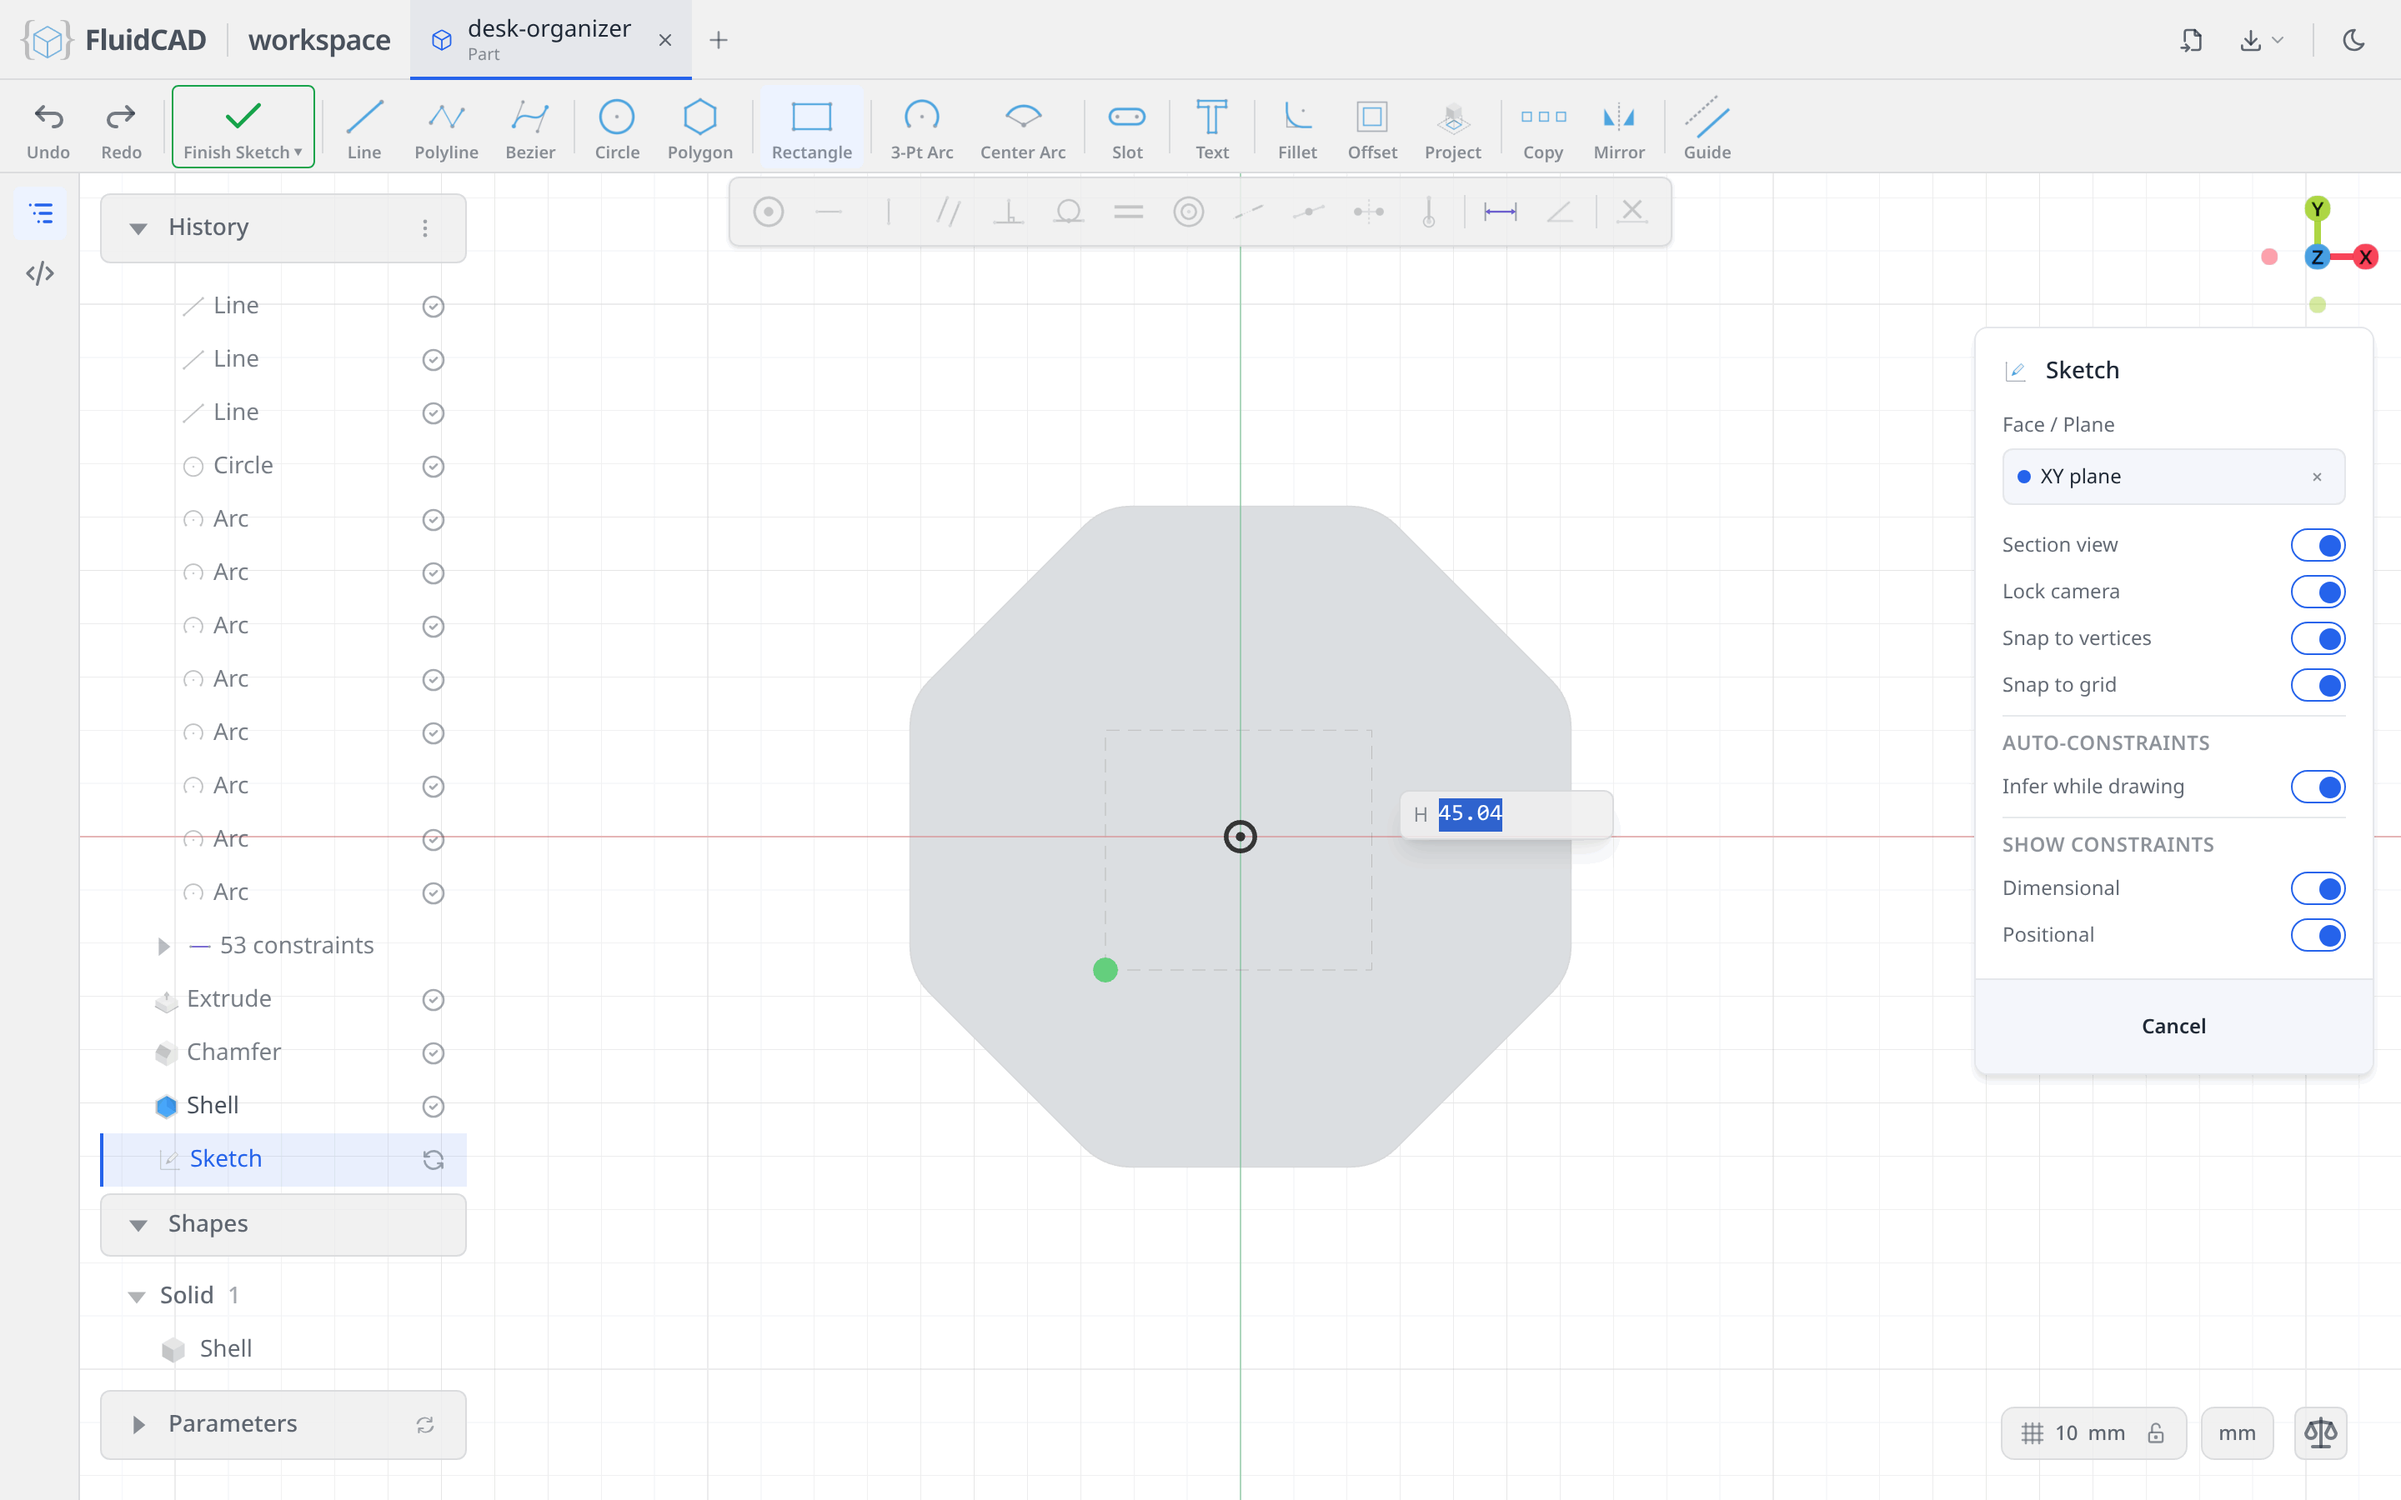
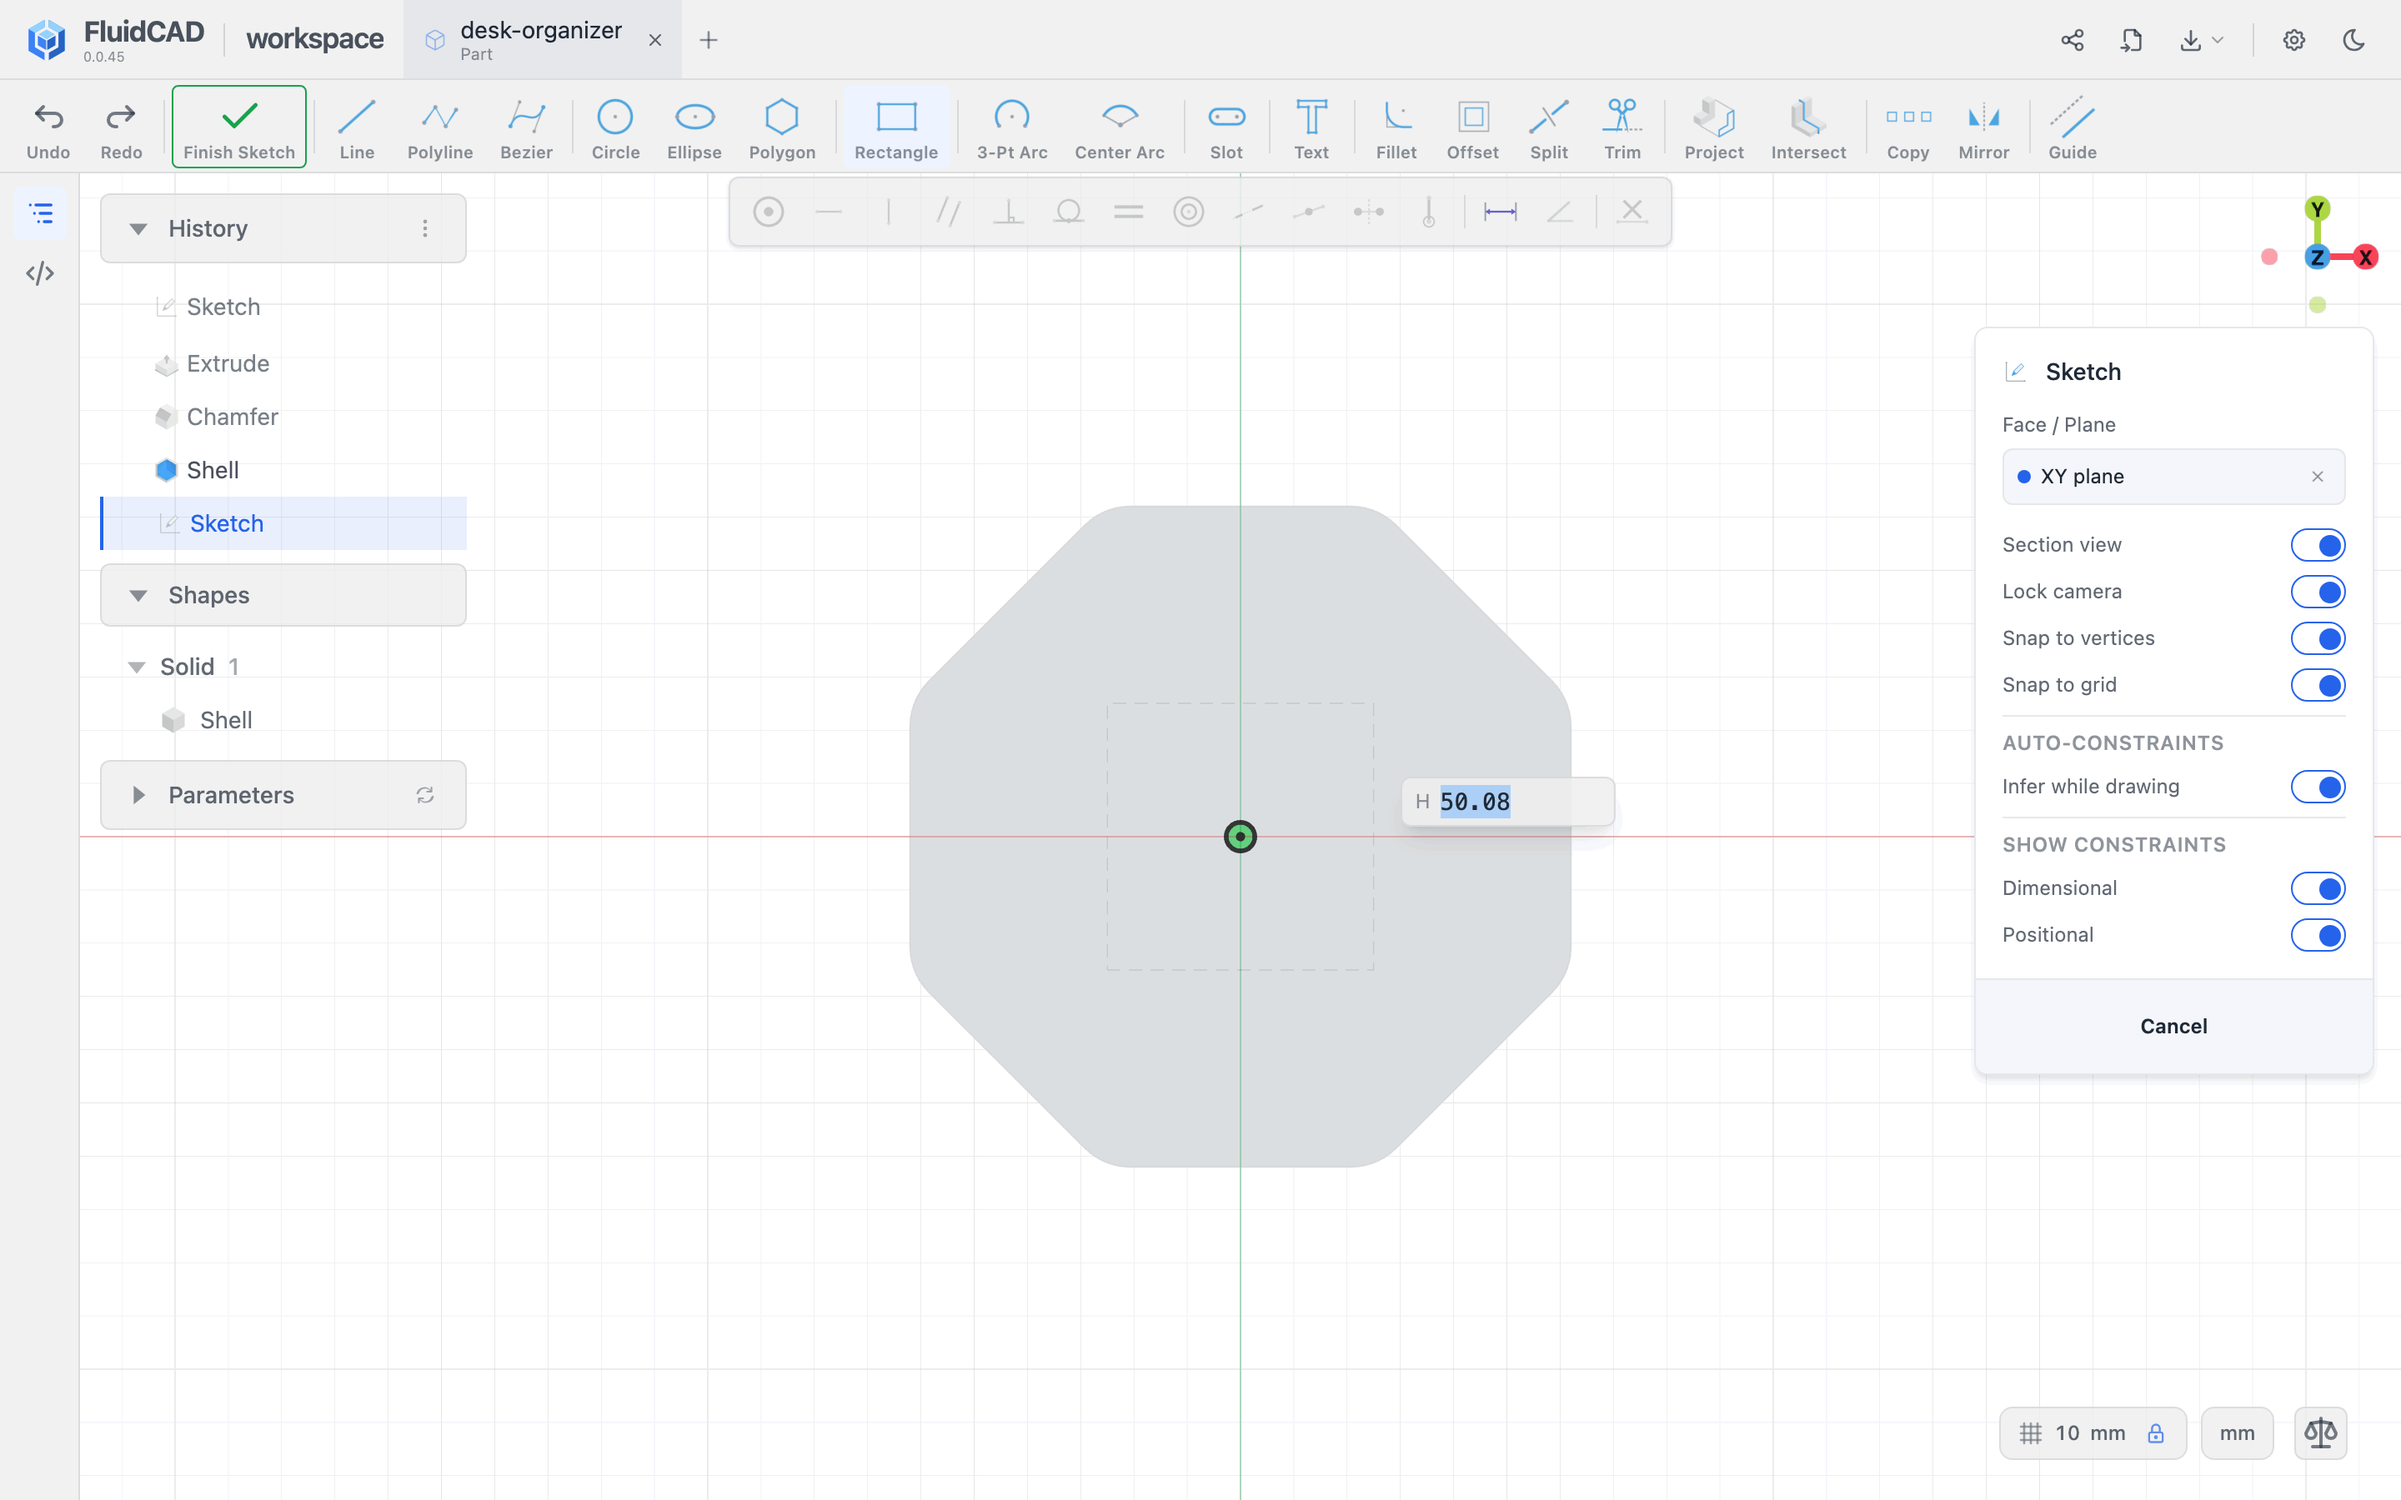
Center desk organizer square with midpoint constraint

diff --git a/website/docs/tutorials/_examples/desk-organizer-final.js b/website/docs/tutorials/_examples/desk-organizer-final.js
@@ -1,6 +1,6 @@
 // @screenshot waitForInput
 import { yAxis, origin, circle, breakpoint, plane, sketch, extrude, fillet, chamfer, repeat, rotate, arc, shell, offset, rib, revolve, line, xAxis } from 'fluidcad/core';
-import { tangent, diameter, angle, coincident, distance, equal, fix, horizontal, radius, vertical } from "fluidcad/constraints";
+import { tangent, diameter, angle, coincident, distance, equal, fix, midpoint, horizontal, radius, vertical } from "fluidcad/constraints";
 
 sketch('xy', () => {
     const l1 = line([75.77, 0], [53.58, 53.58]);
@@ -94,7 +94,7 @@ sketch('xy', () => {
     vertical(sg2);
     horizontal(sg3);
     vertical(sg4);
-    fix(sg1.start(), [-25, -25]);
+    midpoint(origin(), sg1.start(), sg3.start());
     distance(sg1.start(), sg1.end(), 50);
     distance(sg2.start(), sg2.end(), 50);
 

diff --git a/website/docs/tutorials/_examples/desk-organizer-step3-sketch.js b/website/docs/tutorials/_examples/desk-organizer-step3-sketch.js
@@ -1,6 +1,6 @@
 // @screenshot waitForInput
 import { yAxis, origin, circle, breakpoint, plane, sketch, extrude, fillet, chamfer, repeat, rotate, arc, shell, offset, rib, revolve, line, xAxis } from 'fluidcad/core';
-import { tangent, diameter, angle, coincident, distance, equal, fix, horizontal, radius, vertical } from "fluidcad/constraints";
+import { tangent, diameter, angle, coincident, distance, equal, fix, midpoint, horizontal, radius, vertical } from "fluidcad/constraints";
 
 sketch('xy', () => {
     const l1 = line([75.77, 0], [53.58, 53.58]);
@@ -94,7 +94,7 @@ sketch('xy', () => {
     vertical(sg2);
     horizontal(sg3);
     vertical(sg4);
-    fix(sg1.start(), [-25, -25]);
+    midpoint(origin(), sg1.start(), sg3.start());
     distance(sg1.start(), sg1.end(), 50);
     distance(sg2.start(), sg2.end(), 50);
 

diff --git a/website/docs/tutorials/_examples/desk-organizer-step3.js b/website/docs/tutorials/_examples/desk-organizer-step3.js
@@ -1,6 +1,6 @@
 // @screenshot waitForInput
 import { yAxis, origin, circle, breakpoint, plane, sketch, extrude, fillet, chamfer, repeat, rotate, arc, shell, offset, rib, revolve, line, xAxis } from 'fluidcad/core';
-import { tangent, diameter, angle, coincident, distance, equal, fix, horizontal, radius, vertical } from "fluidcad/constraints";
+import { tangent, diameter, angle, coincident, distance, equal, fix, midpoint, horizontal, radius, vertical } from "fluidcad/constraints";
 
 sketch('xy', () => {
     const l1 = line([75.77, 0], [53.58, 53.58]);
@@ -94,7 +94,7 @@ sketch('xy', () => {
     vertical(sg2);
     horizontal(sg3);
     vertical(sg4);
-    fix(sg1.start(), [-25, -25]);
+    midpoint(origin(), sg1.start(), sg3.start());
     distance(sg1.start(), sg1.end(), 50);
     distance(sg2.start(), sg2.end(), 50);
 

diff --git a/website/docs/tutorials/_examples/desk-organizer-step4-sketch.js b/website/docs/tutorials/_examples/desk-organizer-step4-sketch.js
@@ -1,6 +1,6 @@
 // @screenshot waitForInput
 import { yAxis, origin, circle, breakpoint, plane, sketch, extrude, fillet, chamfer, repeat, rotate, arc, shell, offset, rib, revolve, line, xAxis } from 'fluidcad/core';
-import { tangent, diameter, angle, coincident, distance, equal, fix, horizontal, radius, vertical } from "fluidcad/constraints";
+import { tangent, diameter, angle, coincident, distance, equal, fix, midpoint, horizontal, radius, vertical } from "fluidcad/constraints";
 
 sketch('xy', () => {
     const l1 = line([75.77, 0], [53.58, 53.58]);
@@ -94,7 +94,7 @@ sketch('xy', () => {
     vertical(sg2);
     horizontal(sg3);
     vertical(sg4);
-    fix(sg1.start(), [-25, -25]);
+    midpoint(origin(), sg1.start(), sg3.start());
     distance(sg1.start(), sg1.end(), 50);
     distance(sg2.start(), sg2.end(), 50);
 

diff --git a/website/docs/tutorials/_examples/desk-organizer-step4.js b/website/docs/tutorials/_examples/desk-organizer-step4.js
@@ -1,6 +1,6 @@
 // @screenshot waitForInput
 import { yAxis, origin, circle, breakpoint, plane, sketch, extrude, fillet, chamfer, repeat, rotate, arc, shell, offset, rib, revolve, line, xAxis } from 'fluidcad/core';
-import { tangent, diameter, angle, coincident, distance, equal, fix, horizontal, radius, vertical } from "fluidcad/constraints";
+import { tangent, diameter, angle, coincident, distance, equal, fix, midpoint, horizontal, radius, vertical } from "fluidcad/constraints";
 
 sketch('xy', () => {
     const l1 = line([75.77, 0], [53.58, 53.58]);
@@ -94,7 +94,7 @@ sketch('xy', () => {
     vertical(sg2);
     horizontal(sg3);
     vertical(sg4);
-    fix(sg1.start(), [-25, -25]);
+    midpoint(origin(), sg1.start(), sg3.start());
     distance(sg1.start(), sg1.end(), 50);
     distance(sg2.start(), sg2.end(), 50);
 

diff --git a/website/docs/tutorials/_examples/desk-organizer-step5-sketch.js b/website/docs/tutorials/_examples/desk-organizer-step5-sketch.js
@@ -1,6 +1,6 @@
 // @screenshot waitForInput
 import { yAxis, origin, circle, breakpoint, plane, sketch, extrude, fillet, chamfer, repeat, rotate, arc, shell, offset, rib, revolve, line, xAxis } from 'fluidcad/core';
-import { tangent, diameter, angle, coincident, distance, equal, fix, horizontal, radius, vertical } from "fluidcad/constraints";
+import { tangent, diameter, angle, coincident, distance, equal, fix, midpoint, horizontal, radius, vertical } from "fluidcad/constraints";
 
 sketch('xy', () => {
     const l1 = line([75.77, 0], [53.58, 53.58]);
@@ -94,7 +94,7 @@ sketch('xy', () => {
     vertical(sg2);
     horizontal(sg3);
     vertical(sg4);
-    fix(sg1.start(), [-25, -25]);
+    midpoint(origin(), sg1.start(), sg3.start());
     distance(sg1.start(), sg1.end(), 50);
     distance(sg2.start(), sg2.end(), 50);
 

diff --git a/website/docs/tutorials/_examples/desk-organizer-step5.js b/website/docs/tutorials/_examples/desk-organizer-step5.js
@@ -1,6 +1,6 @@
 // @screenshot waitForInput
 import { yAxis, origin, circle, breakpoint, plane, sketch, extrude, fillet, chamfer, repeat, rotate, arc, shell, offset, rib, revolve, line, xAxis } from 'fluidcad/core';
-import { tangent, diameter, angle, coincident, distance, equal, fix, horizontal, radius, vertical } from "fluidcad/constraints";
+import { tangent, diameter, angle, coincident, distance, equal, fix, midpoint, horizontal, radius, vertical } from "fluidcad/constraints";
 
 sketch('xy', () => {
     const l1 = line([75.77, 0], [53.58, 53.58]);
@@ -94,7 +94,7 @@ sketch('xy', () => {
     vertical(sg2);
     horizontal(sg3);
     vertical(sg4);
-    fix(sg1.start(), [-25, -25]);
+    midpoint(origin(), sg1.start(), sg3.start());
     distance(sg1.start(), sg1.end(), 50);
     distance(sg2.start(), sg2.end(), 50);
 
